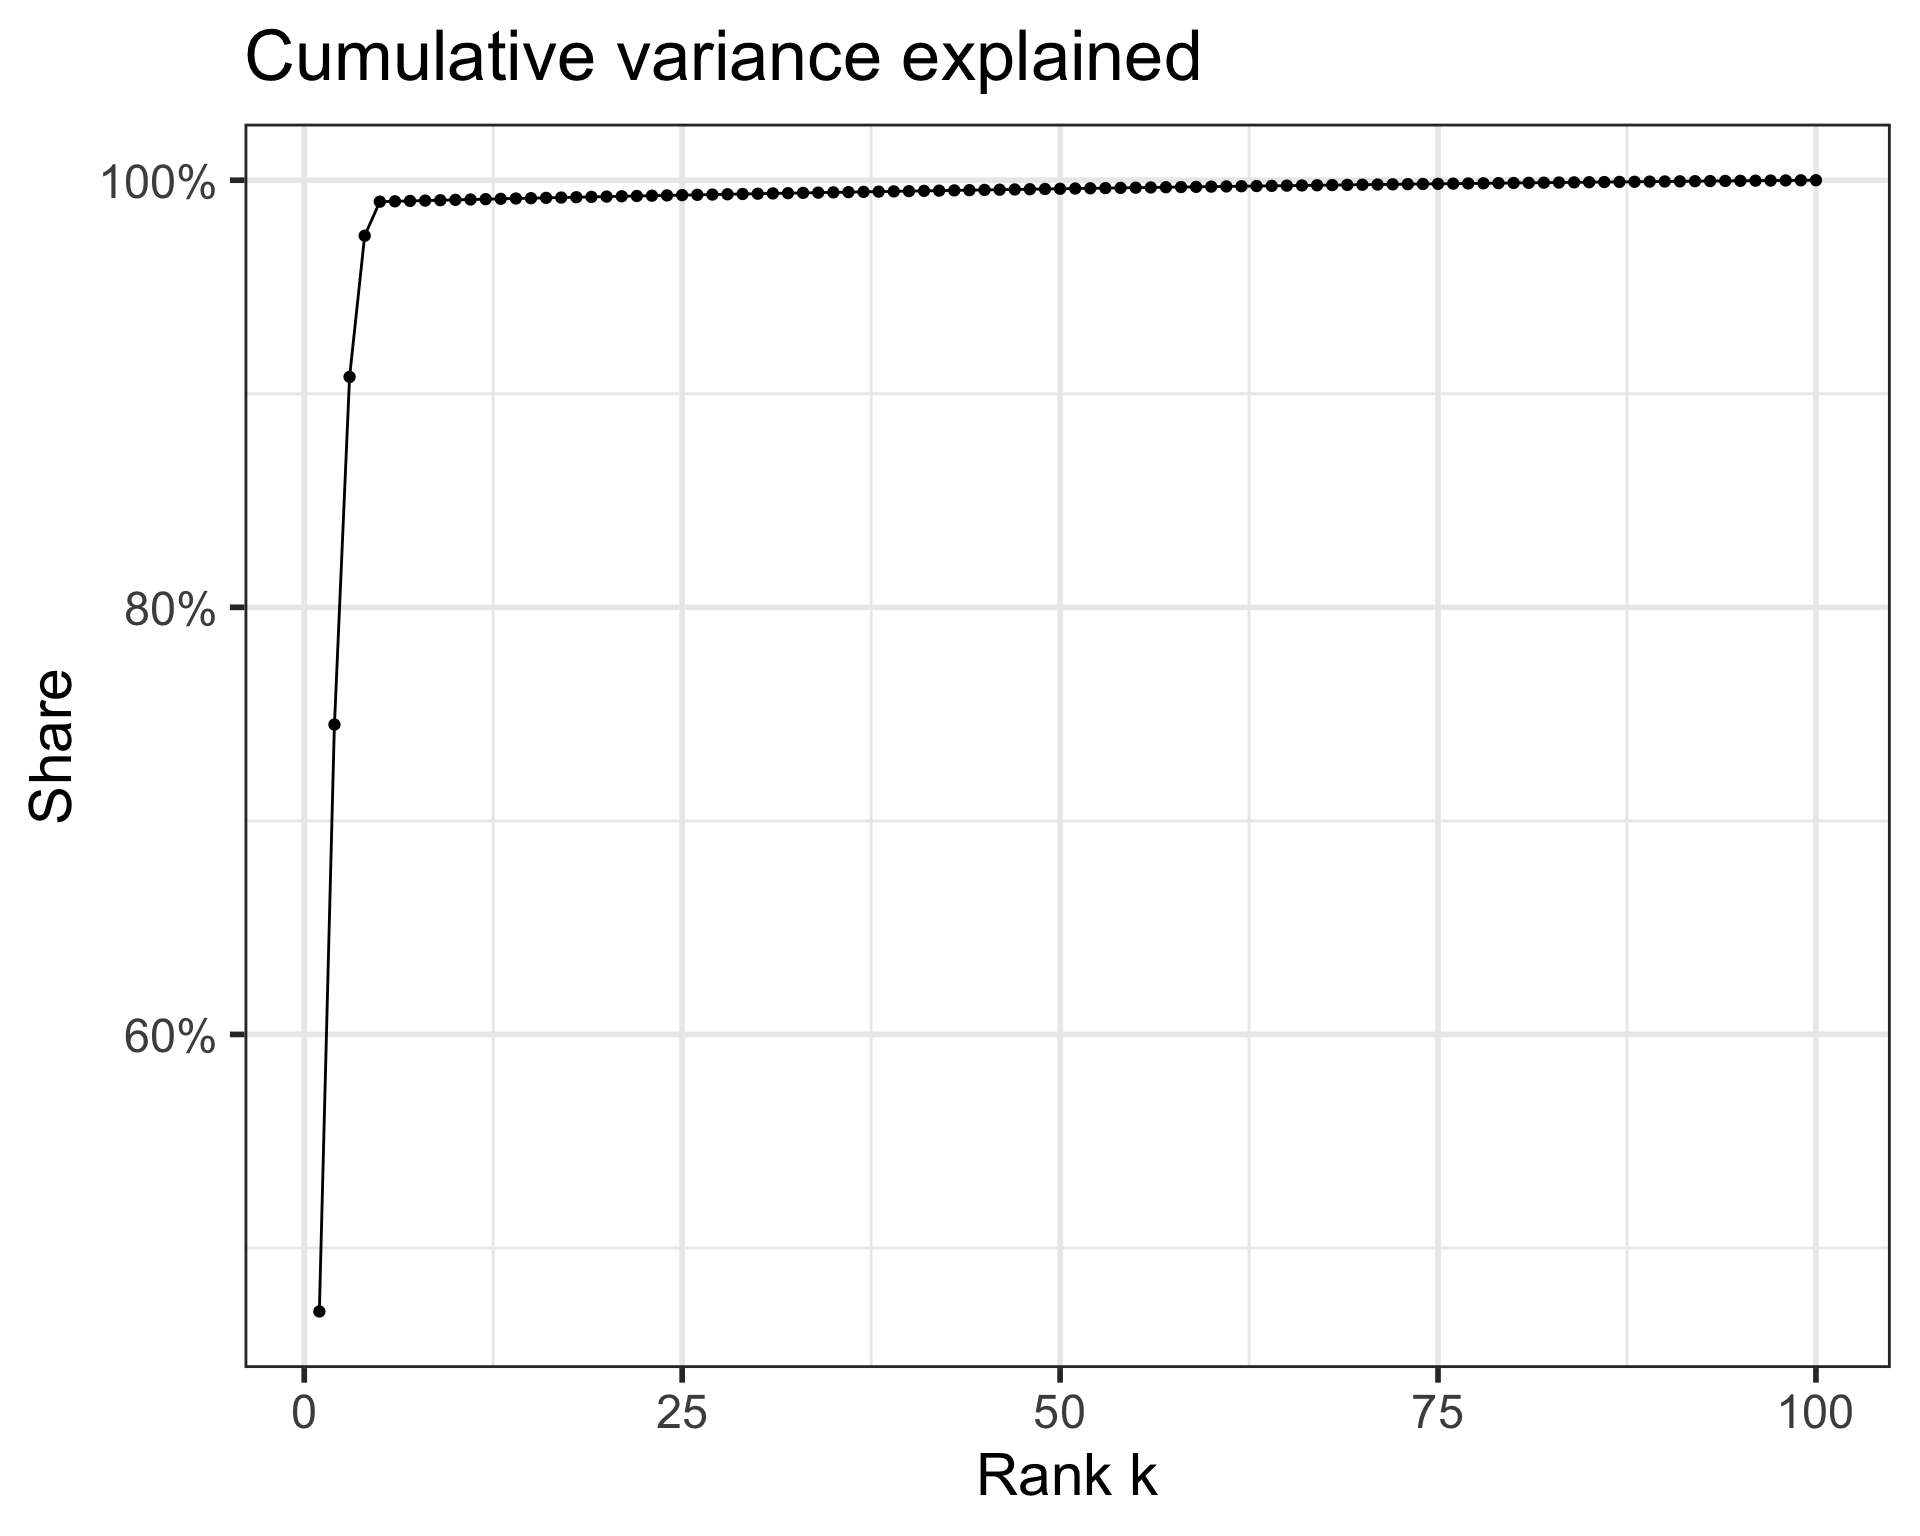
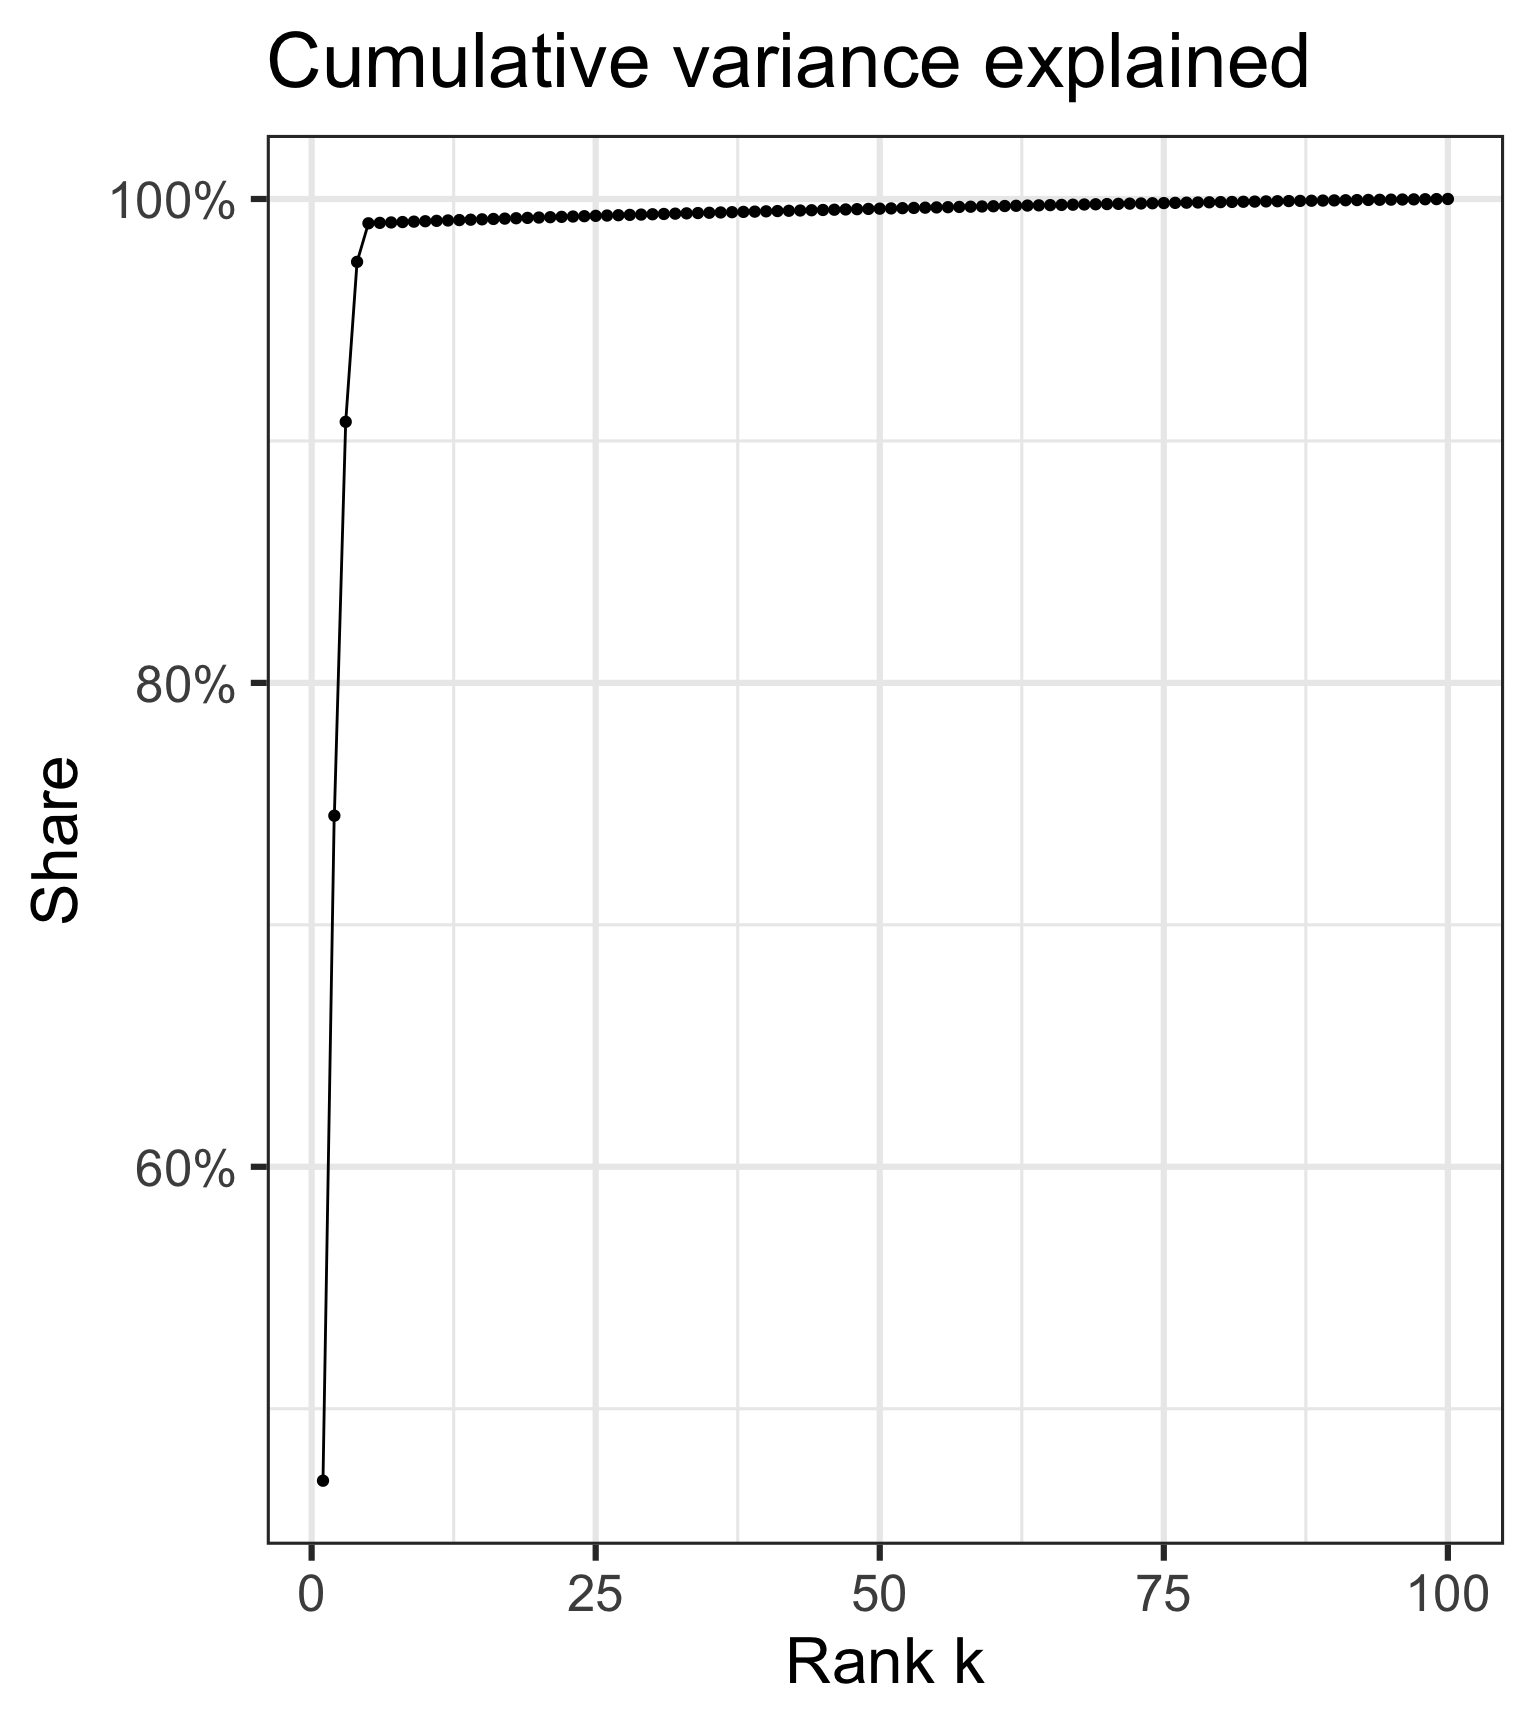
Built site for gh-pages

diff --git a/slides/BSMM_8740_lec_02.html b/slides/BSMM_8740_lec_02.html
@@ -271,7 +271,7 @@ derived from Max Kuhn (RStudio)
 <span id="cb2-7"><a></a><span class="sc">+</span>   gt<span class="sc">::</span><span class="fu">as_raw_html</span>()</span></code><button title="Copy to Clipboard" class="code-copy-button"><i class="bi"></i></button></pre></div>
 </details>
 <div class="cell-output-display">
-<div id="rbdfszhyps" style="padding-left:0px;padding-right:0px;padding-top:10px;padding-bottom:10px;overflow-x:auto;overflow-y:auto;width:auto;height:auto;">
+<div id="poqyuzputu" style="padding-left:0px;padding-right:0px;padding-top:10px;padding-bottom:10px;overflow-x:auto;overflow-y:auto;width:auto;height:auto;">
   
   
 <table class="gt_table caption-top" data-quarto-postprocess="true" data-quarto-disable-processing="false" data-quarto-bootstrap="false" style="-webkit-font-smoothing: antialiased; -moz-osx-font-smoothing: grayscale; font-family: Lato, system-ui, 'Segoe UI', Roboto, Helvetica, Arial, sans-serif, 'Apple Color Emoji', 'Segoe UI Emoji', 'Segoe UI Symbol', 'Noto Color Emoji'; display: table; border-collapse: collapse; line-height: normal; margin-left: auto; margin-right: auto; color: #333333; font-size: 20px; font-weight: normal; font-style: normal; background-color: #FFFFFF; width: auto; border-top-style: solid; border-top-width: 3px; border-top-color: #FFFFFF; border-right-style: none; border-right-width: 2px; border-right-color: #D3D3D3; border-bottom-style: solid; border-bottom-width: 2px; border-bottom-color: #A8A8A8; border-left-style: none; border-left-width: 2px; border-left-color: #D3D3D3;" data-bgcolor="#FFFFFF">
@@ -575,7 +575,7 @@ derived from Max Kuhn (RStudio)
 <span id="cb17-7"><a></a><span class="sc">+</span>   gt<span class="sc">::</span><span class="fu">tab_options</span>( <span class="at">table.font.size =</span> gt<span class="sc">::</span><span class="fu">px</span>(<span class="dv">20</span>) ) <span class="sc">%&gt;%</span> </span>
 <span id="cb17-8"><a></a><span class="sc">+</span>   gt<span class="sc">::</span><span class="fu">as_raw_html</span>()</span></code><button title="Copy to Clipboard" class="code-copy-button"><i class="bi"></i></button></pre></div>
 <div class="cell-output-display">
-<div id="nupakzvpyk" style="padding-left:0px;padding-right:0px;padding-top:10px;padding-bottom:10px;overflow-x:auto;overflow-y:auto;width:auto;height:auto;">
+<div id="crtkwhmbsw" style="padding-left:0px;padding-right:0px;padding-top:10px;padding-bottom:10px;overflow-x:auto;overflow-y:auto;width:auto;height:auto;">
   
   
 <table class="gt_table caption-top" data-quarto-postprocess="true" data-quarto-disable-processing="false" data-quarto-bootstrap="false" style="-webkit-font-smoothing: antialiased; -moz-osx-font-smoothing: grayscale; font-family: Lato, system-ui, 'Segoe UI', Roboto, Helvetica, Arial, sans-serif, 'Apple Color Emoji', 'Segoe UI Emoji', 'Segoe UI Symbol', 'Noto Color Emoji'; display: table; border-collapse: collapse; line-height: normal; margin-left: auto; margin-right: auto; color: #333333; font-size: 20px; font-weight: normal; font-style: normal; background-color: #FFFFFF; width: auto; border-top-style: solid; border-top-width: 3px; border-top-color: #FFFFFF; border-right-style: none; border-right-width: 2px; border-right-color: #D3D3D3; border-bottom-style: solid; border-bottom-width: 2px; border-bottom-color: #A8A8A8; border-left-style: none; border-left-width: 2px; border-left-color: #D3D3D3;" data-bgcolor="#FFFFFF">
@@ -712,10 +712,10 @@ derived from Max Kuhn (RStudio)
 <pre><code># A tibble: 4 × 6
   number operation type        trained skip  id               
    &lt;int&gt; &lt;chr&gt;     &lt;chr&gt;       &lt;lgl&gt;   &lt;lgl&gt; &lt;chr&gt;            
-1      1 step      impute_mean TRUE    FALSE impute_mean_sLJUR
-2      2 step      impute_knn  TRUE    FALSE impute_knn_9yCGJ 
-3      3 step      center      TRUE    FALSE center_Mh2Zf     
-4      4 step      scale       TRUE    FALSE scale_WOMFM      </code></pre>
+1      1 step      impute_mean TRUE    FALSE impute_mean_cdXIa
+2      2 step      impute_knn  TRUE    FALSE impute_knn_p1iaT 
+3      3 step      center      TRUE    FALSE center_cXXPu     
+4      4 step      scale       TRUE    FALSE scale_VyRgZ      </code></pre>
 </div>
 </div>
 <aside><ol class="aside-footnotes"><li id="fn4"><p>Note the data structure of a prepped recipe: a tibble, but with different data than the unprocessed recipe</p></li></ol></aside></section>
@@ -728,10 +728,10 @@ derived from Max Kuhn (RStudio)
 <pre><code># A tibble: 4 × 3
   terms value id          
   &lt;chr&gt; &lt;dbl&gt; &lt;chr&gt;       
-1 Wind   9.82 center_Mh2Zf
-2 Temp  78.4  center_Mh2Zf
-3 Month  6.97 center_Mh2Zf
-4 Day   15.7  center_Mh2Zf</code></pre>
+1 Wind  10.2  center_cXXPu
+2 Temp  77.2  center_cXXPu
+3 Month  6.94 center_cXXPu
+4 Day   15.9  center_cXXPu</code></pre>
 </div>
 </div>
 </section>
@@ -908,14 +908,14 @@ derived from Max Kuhn (RStudio)
 <pre><code># A tibble: 8 × 3
   terms                value id              
   &lt;chr&gt;                &lt;dbl&gt; &lt;chr&gt;           
-1 AngleCh1             0.806 YeoJohnson_h5IMg
-2 AreaCh1             -0.861 YeoJohnson_h5IMg
-3 AvgIntenCh1         -0.340 YeoJohnson_h5IMg
-4 AvgIntenCh2          0.434 YeoJohnson_h5IMg
-5 AvgIntenCh3          0.219 YeoJohnson_h5IMg
-6 AvgIntenCh4          0.213 YeoJohnson_h5IMg
-7 DiffIntenDensityCh1 -0.929 YeoJohnson_h5IMg
-8 DiffIntenDensityCh3  0.116 YeoJohnson_h5IMg</code></pre>
+1 AngleCh1             0.806 YeoJohnson_T1Z4T
+2 AreaCh1             -0.861 YeoJohnson_T1Z4T
+3 AvgIntenCh1         -0.340 YeoJohnson_T1Z4T
+4 AvgIntenCh2          0.434 YeoJohnson_T1Z4T
+5 AvgIntenCh3          0.219 YeoJohnson_T1Z4T
+6 AvgIntenCh4          0.213 YeoJohnson_T1Z4T
+7 DiffIntenDensityCh1 -0.929 YeoJohnson_T1Z4T
+8 DiffIntenDensityCh3  0.116 YeoJohnson_T1Z4T</code></pre>
 </div>
 </div>
 </div>
@@ -926,14 +926,14 @@ derived from Max Kuhn (RStudio)
 <pre><code># A tibble: 8 × 3
   terms                    value id          
   &lt;chr&gt;                    &lt;dbl&gt; &lt;chr&gt;       
-1 AngleCh1                45.0   center_QHg94
-2 AreaCh1                  1.15  center_QHg94
-3 AvgIntenCh1              2.24  center_QHg94
-4 AvgIntenCh2             17.4   center_QHg94
-5 AvgIntenCh3              6.99  center_QHg94
-6 AvgIntenCh4              7.56  center_QHg94
-7 ConvexHullAreaRatioCh1   1.21  center_QHg94
-8 ConvexHullPerimRatioCh1  0.893 center_QHg94</code></pre>
+1 AngleCh1                45.0   center_tgJq0
+2 AreaCh1                  1.15  center_tgJq0
+3 AvgIntenCh1              2.24  center_tgJq0
+4 AvgIntenCh2             17.4   center_tgJq0
+5 AvgIntenCh3              6.99  center_tgJq0
+6 AvgIntenCh4              7.56  center_tgJq0
+7 ConvexHullAreaRatioCh1   1.21  center_tgJq0
+8 ConvexHullPerimRatioCh1  0.893 center_tgJq0</code></pre>
 </div>
 </div>
 </div>
@@ -944,14 +944,14 @@ derived from Max Kuhn (RStudio)
 <pre><code># A tibble: 8 × 3
   terms                      value id         
   &lt;chr&gt;                      &lt;dbl&gt; &lt;chr&gt;      
-1 AngleCh1                21.1     scale_vlN9o
-2 AreaCh1                  0.00334 scale_vlN9o
-3 AvgIntenCh1              0.204   scale_vlN9o
-4 AvgIntenCh2              9.42    scale_vlN9o
-5 AvgIntenCh3              2.50    scale_vlN9o
-6 AvgIntenCh4              3.04    scale_vlN9o
-7 ConvexHullAreaRatioCh1   0.210   scale_vlN9o
-8 ConvexHullPerimRatioCh1  0.0777  scale_vlN9o</code></pre>
+1 AngleCh1                21.1     scale_Q0cRQ
+2 AreaCh1                  0.00334 scale_Q0cRQ
+3 AvgIntenCh1              0.204   scale_Q0cRQ
+4 AvgIntenCh2              9.42    scale_Q0cRQ
+5 AvgIntenCh3              2.50    scale_Q0cRQ
+6 AvgIntenCh4              3.04    scale_Q0cRQ
+7 ConvexHullAreaRatioCh1   0.210   scale_Q0cRQ
+8 ConvexHullPerimRatioCh1  0.0777  scale_Q0cRQ</code></pre>
 </div>
 </div>
 </div>
@@ -1078,16 +1078,16 @@ derived from Max Kuhn (RStudio)
 <pre><code># A tibble: 3,364 × 4
    terms                      value component id       
    &lt;chr&gt;                      &lt;dbl&gt; &lt;chr&gt;     &lt;chr&gt;    
- 1 AngleCh1                 0.00521 PC1       pca_mT1T2
- 2 AreaCh1                  0.0823  PC1       pca_mT1T2
- 3 AvgIntenCh1             -0.204   PC1       pca_mT1T2
- 4 AvgIntenCh2             -0.209   PC1       pca_mT1T2
- 5 AvgIntenCh3             -0.0873  PC1       pca_mT1T2
- 6 AvgIntenCh4             -0.203   PC1       pca_mT1T2
- 7 ConvexHullAreaRatioCh1   0.191   PC1       pca_mT1T2
- 8 ConvexHullPerimRatioCh1 -0.181   PC1       pca_mT1T2
- 9 DiffIntenDensityCh1     -0.185   PC1       pca_mT1T2
-10 DiffIntenDensityCh3     -0.0760  PC1       pca_mT1T2
+ 1 AngleCh1                 0.00521 PC1       pca_U0uml
+ 2 AreaCh1                  0.0823  PC1       pca_U0uml
+ 3 AvgIntenCh1             -0.204   PC1       pca_U0uml
+ 4 AvgIntenCh2             -0.209   PC1       pca_U0uml
+ 5 AvgIntenCh3             -0.0873  PC1       pca_U0uml
+ 6 AvgIntenCh4             -0.203   PC1       pca_U0uml
+ 7 ConvexHullAreaRatioCh1   0.191   PC1       pca_U0uml
+ 8 ConvexHullPerimRatioCh1 -0.181   PC1       pca_U0uml
+ 9 DiffIntenDensityCh1     -0.185   PC1       pca_U0uml
+10 DiffIntenDensityCh3     -0.0760  PC1       pca_U0uml
 # ℹ 3,354 more rows</code></pre>
 </div>
 </div>
@@ -1192,7 +1192,7 @@ derived from Max Kuhn (RStudio)
 <div class="cell-output-display">
 <div class="quarto-figure quarto-figure-center">
 <figure>
-<p><img data-src="images/small_bizsvd-rank-growth.gif" class="quarto-figure quarto-figure-center" style="width:100.0%"></p>
+<p><img data-src="images/small_bizsvd-rank-growth.gif" class="quarto-figure quarto-figure-center"></p>
 </figure>
 </div>
 </div>
@@ -1207,13 +1207,13 @@ derived from Max Kuhn (RStudio)
 <span id="cb51-3"><a></a><span class="sc">+</span>   <span class="fu">ggplot</span>(<span class="fu">aes</span>(k, share)) <span class="sc">+</span></span>
 <span id="cb51-4"><a></a><span class="sc">+</span>   <span class="fu">geom_line</span>() <span class="sc">+</span> <span class="fu">geom_point</span>() <span class="sc">+</span></span>
 <span id="cb51-5"><a></a><span class="sc">+</span>   <span class="fu">scale_y_continuous</span>(<span class="at">labels =</span> scales<span class="sc">::</span>percent) <span class="sc">+</span></span>
-<span id="cb51-6"><a></a><span class="sc">+</span>   <span class="fu">labs</span>(<span class="at">title =</span> <span class="st">"Cumulative Variance Explained"</span>, <span class="at">x =</span> <span class="st">"Rank k"</span>, <span class="at">y =</span> <span class="st">"Variance"</span>) <span class="sc">+</span></span>
-<span id="cb51-7"><a></a><span class="sc">+</span>   <span class="fu">theme_bw</span>(<span class="at">base_size =</span> <span class="dv">16</span>)</span></code><button title="Copy to Clipboard" class="code-copy-button"><i class="bi"></i></button></pre></div>
+<span id="cb51-6"><a></a><span class="sc">+</span>   <span class="fu">labs</span>(<span class="at">title =</span> <span class="st">"Cumulative Variance Explained"</span>, <span class="at">x =</span> <span class="st">"Rank k"</span>, <span class="at">y =</span> <span class="st">"Variance"</span>) <span class="sc">+</span>   </span>
+<span id="cb51-7"><a></a><span class="sc">+</span>   <span class="fu">theme_bw</span>(<span class="at">base_size =</span> <span class="dv">24</span>)</span></code><button title="Copy to Clipboard" class="code-copy-button"><i class="bi"></i></button></pre></div>
 </details>
 <div class="cell-output-display">
 <div class="quarto-figure quarto-figure-center">
 <figure>
-<p><img data-src="BSMM_8740_lec_02_files/figure-revealjs/plot of cumulative variance explained-1.png" class="quarto-figure quarto-figure-center" width="480"></p>
+<p><img data-src="BSMM_8740_lec_02_files/figure-revealjs/plot of cumulative variance-1.png" class="quarto-figure quarto-figure-center" width="768"></p>
 </figure>
 </div>
 </div>
@@ -1223,16 +1223,13 @@ derived from Max Kuhn (RStudio)
 </section>
 <section id="pca-in-practice" class="slide level2">
 <h2>PCA in Practice</h2>
-<div style="font-size: x-large">
-<p>This example has 1000 customers and 100 products.</p>
-</div>
 <div class="columns">
 <div class="column" style="width:50%;">
 <div class="cell" data-layout-align="center">
 <div class="cell-output-display">
 <div class="quarto-figure quarto-figure-center">
 <figure>
-<p><img data-src="BSMM_8740_lec_02_files/figure-revealjs/Cumulative variance by rank 1000 customers-1.png" class="quarto-figure quarto-figure-center" width="960"></p>
+<p><img data-src="BSMM_8740_lec_02_files/figure-revealjs/Cumulative variance by rank 1000 customers-1.png" class="quarto-figure quarto-figure-center" width="768"></p>
 </figure>
 </div>
 </div>
@@ -1242,7 +1239,7 @@ derived from Max Kuhn (RStudio)
 <div class="cell-output-display">
 <div class="quarto-figure quarto-figure-center">
 <figure>
-<p><img data-src="BSMM_8740_lec_02_files/figure-revealjs/Top Singular Values-1.png" class="quarto-figure quarto-figure-center" width="960"></p>
+<p><img data-src="BSMM_8740_lec_02_files/figure-revealjs/Top Singular Values-1.png" class="quarto-figure quarto-figure-center" width="768"></p>
 </figure>
 </div>
 </div>

diff --git a/slides/BSMM_8740_lec_04.html b/slides/BSMM_8740_lec_04.html
@@ -776,7 +776,7 @@ Latitude    -3.263405e+11   -153750632    7421087126</code></pre>
 <span id="cb36-13"><a></a><span class="sc">&gt;</span> <span class="co"># there is a standard output format for yardstick functions</span></span>
 <span id="cb36-14"><a></a><span class="er">&gt;</span> yardstick<span class="sc">::</span><span class="fu">rmse</span>(ames_test_res, <span class="at">truth =</span> Sale_Price, <span class="at">estimate =</span> .pred)</span></code><button title="Copy to Clipboard" class="code-copy-button"><i class="bi"></i></button></pre></div>
 </details>
-<div class="cell quarto-layout-panel" data-layout-align="center" data-layout-ncol="3">
+<div class="cell quarto-layout-panel" data-layout-ncol="3" data-layout-align="center">
 <div class="quarto-layout-row">
 <div class="cell-output cell-output-stdout quarto-layout-cell" style="flex-basis: 33.3%;justify-content: center;">
 <pre><code># A tibble: 588 × 1
@@ -924,7 +924,7 @@ Prediction Class1 Class2
 <span id="cb50-12"><a></a><span class="sc">+</span>   , <span class="at">estimate =</span> predicted</span>
 <span id="cb50-13"><a></a><span class="sc">+</span> )</span></code><button title="Copy to Clipboard" class="code-copy-button"><i class="bi"></i></button></pre></div>
 </details>
-<div class="cell quarto-layout-panel" data-layout-align="center" data-layout-ncol="2">
+<div class="cell quarto-layout-panel" data-layout-ncol="2" data-layout-align="center">
 <div class="quarto-layout-row">
 <div class="cell-output cell-output-stdout quarto-layout-cell" style="flex-basis: 50.0%;justify-content: center;">
 <pre><code># A tibble: 3 × 3
@@ -4755,7 +4755,7 @@ Prediction Class1 Class2
 <p>R repetitions of V-fold cross-validation reduces the standard error variance by a factor of <span class="math inline">\(1/\sqrt{\text{R}}\)</span>.</p>
 </div>
 <div class="sourceCode cell-code" id="cb74"><pre class="sourceCode numberSource r number-lines code-with-copy"><code class="sourceCode r"><span id="cb74-1"><a></a><span class="sc">&gt;</span> rsample<span class="sc">::</span><span class="fu">vfold_cv</span>(ames_train, <span class="at">v =</span> <span class="dv">10</span>, <span class="at">repeats =</span> <span class="dv">5</span>) </span></code><button title="Copy to Clipboard" class="code-copy-button"><i class="bi"></i></button></pre></div>
-<div class="cell quarto-layout-panel" data-layout-align="center" data-layout-ncol="2">
+<div class="cell quarto-layout-panel" data-layout-ncol="2" data-layout-align="center">
 <div class="quarto-layout-row">
 <div class="cell-output cell-output-stdout quarto-layout-cell" style="flex-basis: 50.0%;justify-content: center;">
 <pre><code>#  10-fold cross-validation repeated 5 times 
@@ -4795,7 +4795,7 @@ Prediction Class1 Class2
 <p>A bootstrap sample of the training set is a sample that is the same size as the training set but is drawn <em>with replacement.</em></p>
 <p>When bootstrapping, the assessment set is often called the&nbsp;<em>out-of-bag</em>&nbsp;sample.</p>
 <div class="sourceCode cell-code" id="cb76"><pre class="sourceCode numberSource r number-lines code-with-copy"><code class="sourceCode r"><span id="cb76-1"><a></a><span class="sc">&gt;</span> rsample<span class="sc">::</span><span class="fu">bootstraps</span>(ames_train, <span class="at">times =</span> <span class="dv">5</span>)</span></code><button title="Copy to Clipboard" class="code-copy-button"><i class="bi"></i></button></pre></div>
-<div class="cell quarto-layout-panel" data-layout-align="center" data-layout-ncol="2">
+<div class="cell quarto-layout-panel" data-layout-ncol="2" data-layout-align="center">
 <div class="quarto-layout-row">
 <div class="cell-output cell-output-stdout quarto-layout-cell" style="flex-basis: 50.0%;justify-content: center;">
 <pre><code># Bootstrap sampling 
@@ -4969,7 +4969,7 @@ Prediction Class1 Class2
 <span id="cb84-7"><a></a><span class="sc">+</span>   tune<span class="sc">::</span><span class="fu">fit_resamples</span>(<span class="at">resamples =</span> ames_folds, <span class="at">control =</span> keep_pred)</span>
 <span id="cb84-8"><a></a><span class="sc">&gt;</span> rf_res</span></code><button title="Copy to Clipboard" class="code-copy-button"><i class="bi"></i></button></pre></div>
 </details>
-<div class="cell quarto-layout-panel" data-layout-align="center" data-layout-ncol="2">
+<div class="cell quarto-layout-panel" data-layout-ncol="2" data-layout-align="center">
 <div class="quarto-layout-row">
 <div class="cell-output cell-output-stdout quarto-layout-cell" style="flex-basis: 50.0%;justify-content: center;">
 <pre><code># Resampling results

diff --git a/supplemental/collinearity.html b/supplemental/collinearity.html
@@ -648,7 +648,7 @@ a_1v_1+a_2v_2+ \cdots + a_nv_n = 0
 <span id="cb1-19"><a href="#cb1-19" aria-hidden="true" tabindex="-1"></a><span class="sc">+</span>   <span class="fu">ggplot</span>(<span class="fu">aes</span>(<span class="at">x =</span> x, <span class="at">y =</span> y)) <span class="sc">+</span></span>
 <span id="cb1-20"><a href="#cb1-20" aria-hidden="true" tabindex="-1"></a><span class="sc">+</span>   <span class="fu">geom_point</span>()</span>
 <span id="cb1-21"><a href="#cb1-21" aria-hidden="true" tabindex="-1"></a><span class="sc">&gt;</span> <span class="fu">lm</span>(y<span class="sc">~</span>x, dat0)</span></code><button title="Copy to Clipboard" class="code-copy-button"><i class="bi"></i></button></pre></div>
-<div class="cell quarto-layout-panel" data-layout-ncol="2" data-layout-align="center">
+<div class="cell quarto-layout-panel" data-layout-align="center" data-layout-ncol="2">
 <div class="quarto-layout-row">
 <div class="quarto-layout-cell" style="flex-basis: 50.0%;justify-content: center;">
 <div class="quarto-figure quarto-figure-center">
@@ -723,7 +723,7 @@ Coefficients:
 <span id="cb5-9"><a href="#cb5-9" aria-hidden="true" tabindex="-1"></a><span class="sc">+</span>   <span class="fu">ggplot</span>(<span class="fu">aes</span>(<span class="at">x =</span> x, <span class="at">y =</span> y)) <span class="sc">+</span></span>
 <span id="cb5-10"><a href="#cb5-10" aria-hidden="true" tabindex="-1"></a><span class="sc">+</span>   <span class="fu">geom_point</span>()</span>
 <span id="cb5-11"><a href="#cb5-11" aria-hidden="true" tabindex="-1"></a><span class="sc">&gt;</span> <span class="fu">lm</span>(y <span class="sc">~</span> a <span class="sc">+</span> b, dat1)</span></code><button title="Copy to Clipboard" class="code-copy-button"><i class="bi"></i></button></pre></div>
-<div class="cell quarto-layout-panel" data-layout-ncol="2" data-layout-align="center">
+<div class="cell quarto-layout-panel" data-layout-align="center" data-layout-ncol="2">
 <div class="quarto-layout-row">
 <div class="quarto-layout-cell" style="flex-basis: 50.0%;justify-content: center;">
 <div class="quarto-figure quarto-figure-center">
@@ -818,7 +818,7 @@ Coefficients:
 <span id="cb11-15"><a href="#cb11-15" aria-hidden="true" tabindex="-1"></a><span class="sc">&gt;</span> </span>
 <span id="cb11-16"><a href="#cb11-16" aria-hidden="true" tabindex="-1"></a><span class="er">&gt;</span> <span class="co"># plot the coefficient estimates as a function of the penalty parameter lambda</span></span>
 <span id="cb11-17"><a href="#cb11-17" aria-hidden="true" tabindex="-1"></a><span class="er">&gt;</span> <span class="fu">plot</span>(fit1, <span class="at">xvar=</span><span class="st">'lambda'</span>)</span></code><button title="Copy to Clipboard" class="code-copy-button"><i class="bi"></i></button></pre></div>
-<div class="cell quarto-layout-panel" data-layout-ncol="2" data-layout-align="center">
+<div class="cell quarto-layout-panel" data-layout-align="center" data-layout-ncol="2">
 <div class="quarto-layout-row">
 <div class="quarto-layout-cell" style="flex-basis: 50.0%;justify-content: center;">
 <div class="quarto-figure quarto-figure-center">
@@ -849,7 +849,7 @@ Coefficients:
 <span id="cb12-16"><a href="#cb12-16" aria-hidden="true" tabindex="-1"></a><span class="sc">+</span>   dplyr<span class="sc">::</span><span class="fu">mutate</span>(</span>
 <span id="cb12-17"><a href="#cb12-17" aria-hidden="true" tabindex="-1"></a><span class="sc">+</span>     <span class="at">check =</span> a<span class="sc">/</span><span class="dv">3</span> <span class="sc">+</span> <span class="dv">2</span> <span class="sc">*</span> b<span class="sc">/</span><span class="dv">3</span></span>
 <span id="cb12-18"><a href="#cb12-18" aria-hidden="true" tabindex="-1"></a><span class="sc">+</span>   )</span></code><button title="Copy to Clipboard" class="code-copy-button"><i class="bi"></i></button></pre></div>
-<div class="cell quarto-layout-panel" data-layout-ncol="2" data-layout-align="center">
+<div class="cell quarto-layout-panel" data-layout-align="center" data-layout-ncol="2">
 <div class="quarto-layout-row">
 <div class="cell-output cell-output-stdout quarto-layout-cell" style="flex-basis: 50.0%;justify-content: center;">
 <pre><code>4 x 1 sparse Matrix of class "dgCMatrix"

diff --git a/scrolly/tidymodels.html b/scrolly/tidymodels.html
@@ -5850,10 +5850,10 @@ display: none;
       <!-- user-provided yaml closeread style options -->
       <style>
 :root {
---cr-section-background-color: white;
---cr-narrative-background-color-overlay: yellow;
 --cr-narrative-text-color-sidebar: green;
+--cr-narrative-background-color-overlay: yellow;
 --cr-narrative-outer-margin: 0.45;
+--cr-section-background-color: white;
 }
 </style>
     